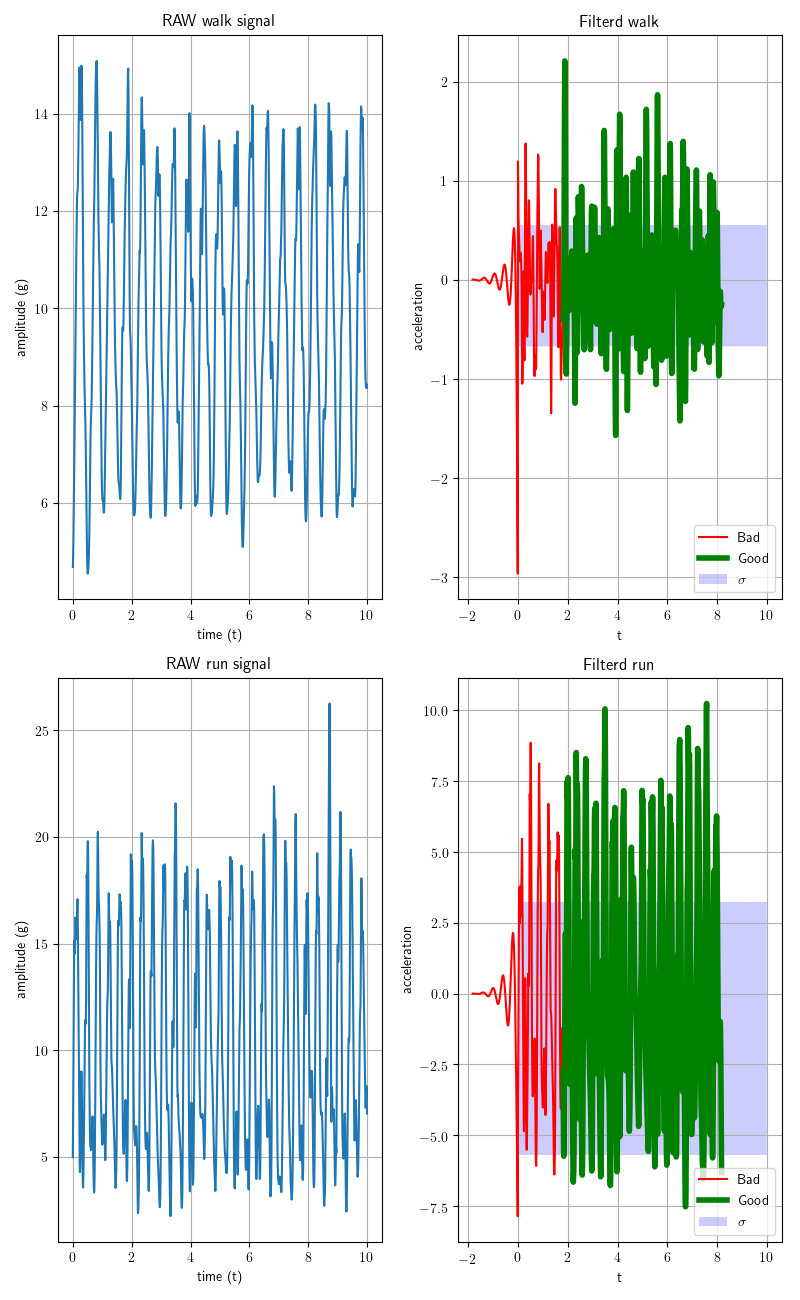
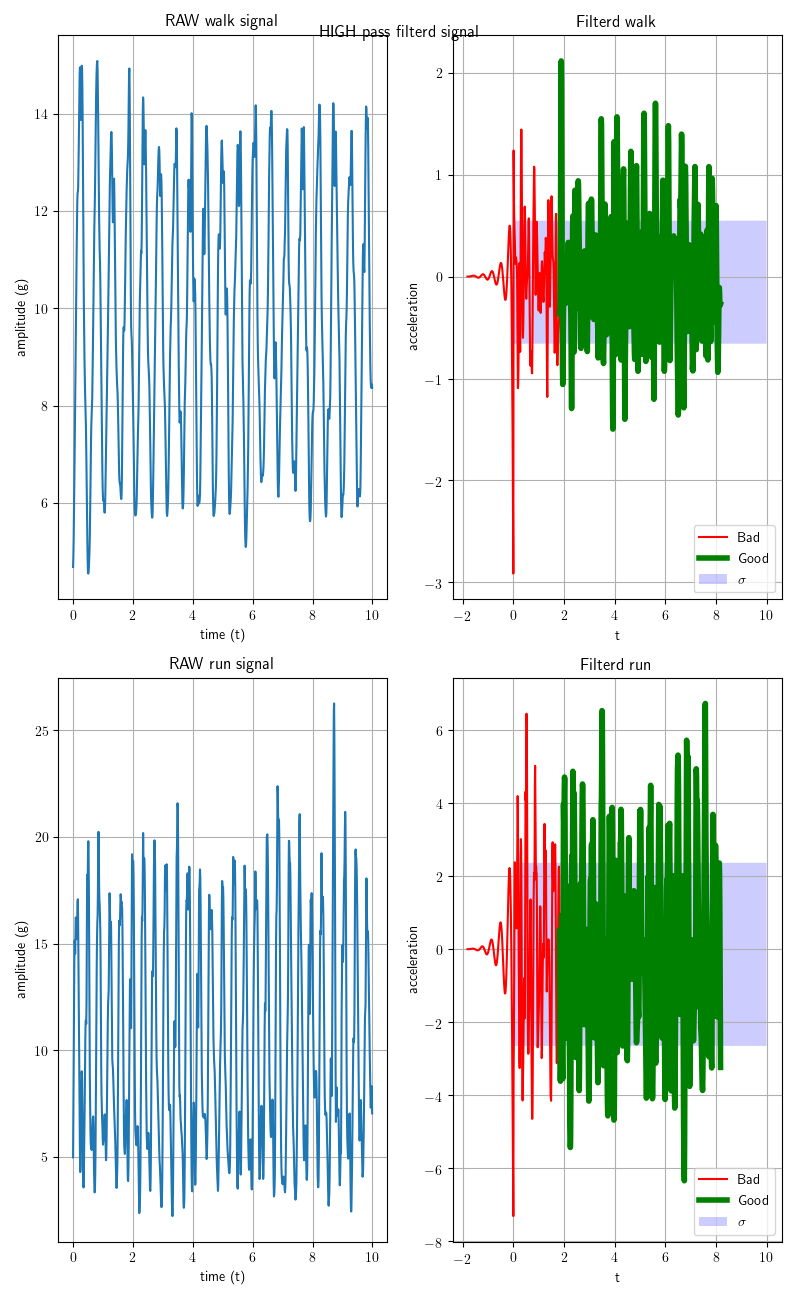
Plots are done

diff --git a/lti_system.py b/lti_system.py
@@ -30,13 +30,13 @@ class fir_filter:
         # Compute the Kaizer parameter for the FIR filter.
         self._N, self._beta = kaiserord(self._ripple_db,self._width)
         self._taps = firwin(self._N,cutoff_hz/self._nyq_rate, window=(win,self._beta))
-        self._freqz = freqz(self._taps, worN=8000)
-        self._h_dB = 20*np.log(np.abs(self._freqz[1]))
         self._ishigpass = higpas
         if self._ishigpass == True:
             print("Higpass filter init")
             self._taps = -self._taps
-            self._taps[self._N//2] = self._taps[self._N//2] + 1
+            self._taps[self._N//2] += 1
+        self._freqz = freqz(self._taps, worN=8000)
+        self._h_dB = 20*np.log(np.abs(self._freqz[1]) + 0.00001)
         self._filterd_x = lfilter(self._taps,1.0,signal)
         delay = 0.5 * (self._N - 1)/self._sample_rate
         self._good_t = self._t[self._N-1:]-delay,
@@ -88,7 +88,6 @@ class fir_filter:
             plt.ylim(ylim)
         plt.grid(True)
 
-
     def plot_magnitude(self,subplot=False):
         if not isinstance(subplot, bool):
             plt.subplot(subplot)
@@ -123,22 +122,25 @@ class fir_filter:
         plt.xlabel(r'Normalized Frequency (x$\pi$rad/sample)')
         plt.title(r'Frequency response')
 
-    def plot_impulse_response(self, subplot=False):
+    def plot_impulse_response(self, a=1, subplot=False):
         if not isinstance(subplot, bool):
             plt.subplot(subplot)
         l = len(self._taps)
-        impulse = np.repeat(0.,l); impulse[0] =1.
+        impulse = np.repeat(0.,l)
+        impulse[0] = 1
         x = np.arange(0,l)
         response = lfilter(self._taps,1,impulse)
         plt.stem(x, response)
+        # plt.plot(x, np.sin(x))
         plt.ylabel('Amplitude')
         plt.xlabel(r'n (samples)')
         plt.title(r'Impulse response')
+        plt.grid(True)
 
     def plot_phase_response(self, subplot=False):
         if not isinstance(subplot, bool):
             plt.subplot(subplot)
-        h_phase = np.unwrap(np.arctan2(np.imag(self._freqz[1]), np.real(self._freqz[1])))
+        h_phase = np.unwrap(np.arctan2(np.imag(self._freqz[0]), np.real(self._freqz[1])))
         plt.plot(self._freqz[0]/np.max(self._freqz[0]), h_phase)
         plt.ylabel('Phase (radians)')
         plt.xlabel(r'Normalized Frequency (x$\pi$rad/sample)')
@@ -189,11 +191,15 @@ def plot_lit_sytem(data, walk_run='walk', signalnr=4, cutoff_hz=2.0, savefig='pl
     # | Phase response
     # -----------------------------------------------
     fir = fir_filter(data[walk_run][signalnr], cutoff_hz=cutoff_hz, higpas=hp)
-    fir.plot_impulse_response(411)
-    fir.plot_magnitude(412)
-    fir.plot_frequesy_response(413)
-    fir.plot_phase_response(414)
-
+    count = 1
+    shape = 410
+    fir.plot_impulse_response(subplot=shape + count)
+    count += 1
+    fir.plot_magnitude(shape + count)
+    count += 1
+    fir.plot_frequesy_response(shape + count)
+    count += 1
+    fir.plot_phase_response(shape+count)
     plt.savefig("presentation/figures/{}".format(savefig))
 
 
@@ -201,18 +207,25 @@ def plot_lit_sytem(data, walk_run='walk', signalnr=4, cutoff_hz=2.0, savefig='pl
 if __name__ == '__main__':
     data = data()
     plt.rc('text', usetex=True)
+    higpa_cutoff_hz=2.8
+    # --------- Lopass filterd signals------------
     fig=plt.figure(figsize=(8,13), tight_layout=True)
+    fig.suptitle("LOW pass filterd signal")
     plot_filter_results(data, savefig="plot_lti_lopasl.png")
-    fig=plt.figure(figsize=(8,13), tight_layout=True)
-    plot_filter_results(data, savefig='plot_lti_higpas.png', cutoff_hz=2.5, hp=True)
+    # --------- Highpass filterd signals------------
+    # fig=plt.figure(figsize=(8,13), tight_layout=True)
+    # fig.suptitle("HIGH pass filterd signal")
+    # plot_filter_results(data, savefig='plot_lti_higpas.png', cutoff_hz=higpa_cutoff_hz, hp=True)
+
+
     # --------- Lopass filter plot ------------
     fig=plt.figure(figsize=(8,13), tight_layout=True)
     fig.suptitle("LOW pass filter")
-    plot_lit_sytem(data,walk_run='run', signalnr=4, savefig='plot_system_lopass')
-    # # --------- Higpass filter plot ------------
+    plot_lit_sytem(data,walk_run='run', signalnr=4, savefig='plot_system_lopass.png')
+    # --------- Higpass filter plot ------------
     # fig=plt.figure(figsize=(8,13), tight_layout=True)
     # fig.suptitle("HIGH pass filter")
-    # plot_lit_sytem(data,walk_run='run', signalnr=4, savefig='plot_system_lopass', cutoff_hz=2.45, hp=True)
+    # plot_lit_sytem(data,walk_run='run', signalnr=4, savefig='plot_system_lopass', cutoff_hz=higpa_cutoff_hz, hp=True)
 
     # for key in data.keys():
     #     if key == 'walk':

diff --git a/filters.py b/filters.py
@@ -27,23 +27,24 @@ def butter_highpass_filter(data, cutoff, fs, order=5):
     y = signal.filtfilt(b, a, data)
     return y
 
-fps = 30
-sine_fq = 10 #Hz
-duration = 10 #seconds
-sine_5Hz = sine_generator(fps,sine_fq,duration)
-sine_fq = 1 #Hz
-duration = 10 #seconds
-sine_1Hz = sine_generator(fps,sine_fq,duration)
+if __name__ == '__main__':
+    fps = 30
+    sine_fq = 10 #Hz
+    duration = 10 #seconds
+    sine_5Hz = sine_generator(fps,sine_fq,duration)
+    sine_fq = 1 #Hz
+    duration = 10 #seconds
+    sine_1Hz = sine_generator(fps,sine_fq,duration)
 
-sine = sine_5Hz + sine_1Hz
+    sine = sine_5Hz + sine_1Hz
 
-filtered_sine = butter_highpass_filter(sine.data,10,fps)
+    filtered_sine = butter_highpass_filter(sine.data,10,fps)
 
-plt.figure(figsize=(20,10))
-plt.subplot(211)
-plt.plot(range(len(sine)),sine)
-plt.title('generated signal')
-plt.subplot(212)
-plt.plot(range(len(filtered_sine)),filtered_sine)
-plt.title('filtered signal')
-plt.show()
+    plt.figure(figsize=(20,10))
+    plt.subplot(211)
+    plt.plot(range(len(sine)),sine)
+    plt.title('generated signal')
+    plt.subplot(212)
+    plt.plot(range(len(filtered_sine)),filtered_sine)
+    plt.title('filtered signal')
+    plt.show()
